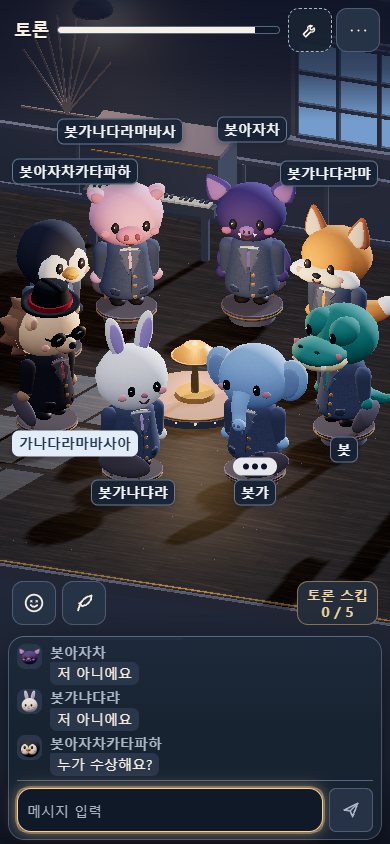
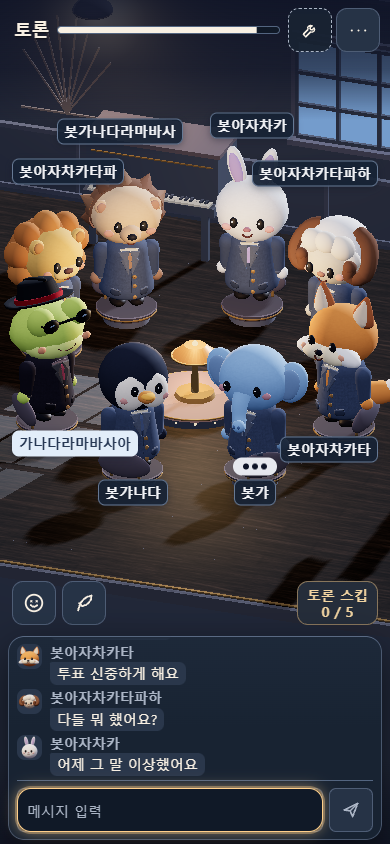
docs: 재즈 바 3D 개편 공개 검수 기록

diff --git a/HANDOFF.md b/HANDOFF.md
@@ -6,7 +6,7 @@
 
 - **v3.0 시험판**(`v3`)에 [B안 달빛 누아르](docs/decisions/0093-v3-noir-visual-redesign.md)를 두 맵의 3D 공간·조명, 캐릭터·유령·초상화·의상·배경 이미지, 홈부터 결과까지의 공통 UI에 적용했다. **22** 낮은 토론 → 찬반 → 지목 → 유언 → 처형(결정 0090). **23** 첫날 키워드와 정답 공개, 조기 진행, D1 판 기록(결정 0091). **24-01~07** 구현 완료.
 - [동물 12종](docs/decisions/0102-animal-characters.md)은 3D 모델·초상·의상을 공유한다. [공용 화면](docs/decisions/0100-home-art-and-discussion-controls.md)의 채팅은 하단에 두고, [단계의 선택과 결과](docs/decisions/0103-phase-events.md)는 중앙에서 진행한다.
-- **공개 v3** `2026-11-19T12:27:02Z+d1866abe`. [데스크톱 방·입장 공통 폭과 검수](docs/decisions/0106-desktop-room-layout.md). [채팅·메뉴·의심딱지](docs/decisions/0105-room-controls-and-suspect-targets.md) 모바일 브라우저 검수, 실기기 확인 대기. [3D 시안 원본](design/v3.0/redesign/imagegen-3d-reference/) 보관. [첫날 실험방](https://minifia-v3.dhplay.workers.dev/?playtest=1)은 별도 링크로 만든다.
+- **공개 v3** `2026-11-19T13:42:18Z+9b237c87`. 재즈 바·동물 3D 에셋 적용. [데스크톱 공통 폭](docs/decisions/0106-desktop-room-layout.md)과 [채팅·메뉴·의심딱지](docs/decisions/0105-room-controls-and-suspect-targets.md)는 실기기 확인 대기. [3D 시안 원본](design/v3.0/redesign/imagegen-3d-reference/)과 [첫날 실험방](https://minifia-v3.dhplay.workers.dev/?playtest=1)을 따로 보관한다.
 - **v2.0 완료 처리(2026-11-07)**: 태그 `v2.0`, 문서는 `.planning/milestones/v2.0-*`. 열린 감사 항목 26개는 STATE.md 미룬 항목. main 은 v1.0 그대로, v3.0 실테스트 통과 뒤 반영.
 - **캐릭터·맵**의 B안 모델은 `src/world/character.ts`, `src/world/ghost3d.ts`, `src/world/maps/`에 있다. 시안은 `design/v3.0/redesign/b-noir.png`. 이미지 재생성은 [에셋 자동 검사](docs/screen-map.md#에셋-자동-검사) 참고.
 - **맵(결정 0050)**: 재즈 바 + 시계탑 광장(`PLAYABLE_MAPS`, 방장이 고름). 블록아웃 https://claude.ai/artifact/1hzgEyAufgnDPVMvPvxdhP (사본 `design/v2.0/blockout/`).

diff --git a/docs/decisions/0107-compact-noir-jazz-bar.md b/docs/decisions/0107-compact-noir-jazz-bar.md
@@ -12,6 +12,13 @@
 
 - Chrome 320×844·390×844·1280×800에서 4인과 8인의 토론 카메라 투영을 대조했다. 320px 긴 이름과 반대편 캐릭터를 직접 눌러 붙이는 딱지를 확인했다. 착석 중에는 잠시 이름표가 겹칠 수 있다. 390px에서 재즈 바와 광장 4인판을 결과까지 진행했고, 8인 재즈 바의 밤 얼굴 선택도 확인했다.
 - 390×844 DPR 1, Windows Chrome/RTX 4060 Ti에서 재즈 바 8인과 딱지 8장을 15초씩 측정했다. 프레임 시간 p95는 이전과 새판 모두 7.1ms였고 드로 콜은 76회에서 49회로 줄었다. 이전판은 정적 빌드, 새판은 Vite 개발 환경이다. 실기기 성능은 검수 대기다.
+- 타입 검사, 단위·클라이언트 7,328건, 관련 워커 110건, PC·옷장·밤 E2E를 확인했다. Windows의 정적 가드 자기 검사 3건은 변경 전 `070bfa71`에서도 실패했다. 초기 전체 실행에서 타임아웃이 발생해 변경 범위를 분리해 재검사했다.
+
+## 공개 검수
+
+`minifia-v3`의 `/api/health` 버전 `2026-11-19T13:42:18Z+9b237c87`을 확인하고 목재, 맵 카드, 동물 얼굴·의상, 유령, 홈과 초대 이미지 7개가 로컬 빌드와 일치하는 것을 확인했다. 공개판 390×844 재즈 바에서 8명이 착석했고 카메라 배율은 86.28px/단위였다. 둘째 날에 키보드로 의심 대상을 골라 렌더러에 딱지가 반영되는 것까지 확인했다.
+
+공개 5인 전체 스모크에서 지목·유언·처형, 밤·아침, 재접속 후 채팅 복원과 2일차 결과를 확인했다.
 
 ## 목재 텍스처 생성 프롬프트
 
